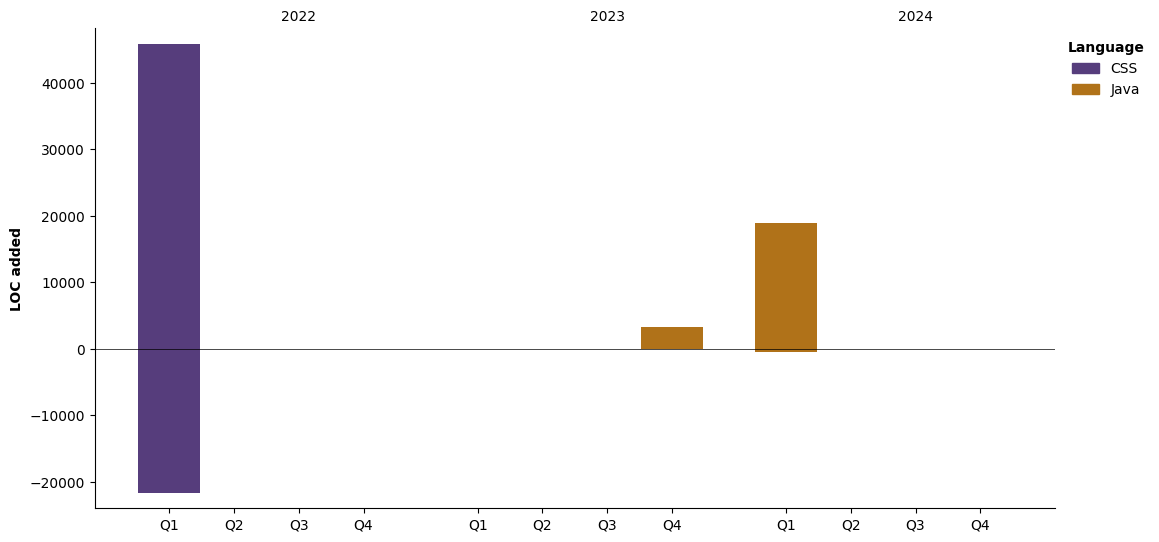
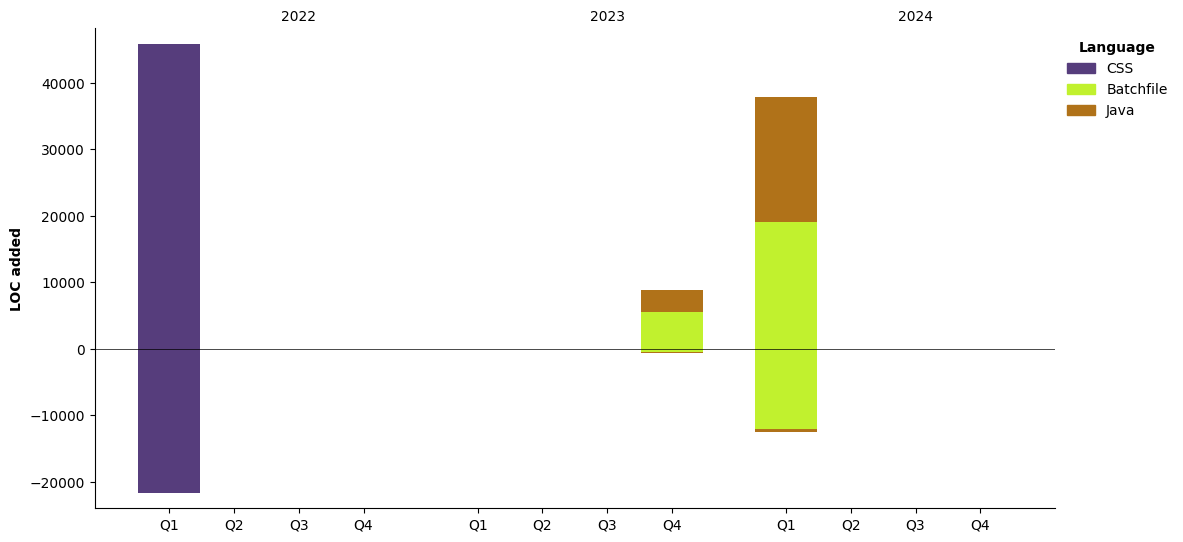
Updated with Dev Metrics

diff --git a/README.md b/README.md
@@ -8,13 +8,15 @@
   - email: ***whaifree@163.com***
 
 <!--START_SECTION:waka-->
+![Code Time](http://img.shields.io/badge/Code%20Time-1%20hr%2041%20mins-blue)
+
 ![Profile Views](http://img.shields.io/badge/Profile%20Views-70-blue)
 
 **🐱 My GitHub Data** 
 
 > 📦 63.9 kB Used in GitHub's Storage 
  > 
-> 🏆 96 Contributions in the Year 2024
+> 🏆 97 Contributions in the Year 2024
  > 
 > 🚫 Not Opted to Hire
  > 
@@ -22,6 +24,58 @@
  > 
 > 🔑 0 Private Repositories 
  > 
+**I'm a Night 🦉** 
 
- Last Updated on 26/03/2024 18:37:40 UTC
+```text
+🌞 Morning                18 commits          ███░░░░░░░░░░░░░░░░░░░░░░   13.14 % 
+🌆 Daytime                32 commits          ██████░░░░░░░░░░░░░░░░░░░   23.36 % 
+🌃 Evening                86 commits          ████████████████░░░░░░░░░   62.77 % 
+🌙 Night                  1 commits           ░░░░░░░░░░░░░░░░░░░░░░░░░   00.73 % 
+```
+📅 **I'm Most Productive on Tuesday** 
+
+```text
+Monday                   9 commits           ██░░░░░░░░░░░░░░░░░░░░░░░   06.57 % 
+Tuesday                  30 commits          █████░░░░░░░░░░░░░░░░░░░░   21.90 % 
+Wednesday                21 commits          ████░░░░░░░░░░░░░░░░░░░░░   15.33 % 
+Thursday                 17 commits          ███░░░░░░░░░░░░░░░░░░░░░░   12.41 % 
+Friday                   19 commits          ███░░░░░░░░░░░░░░░░░░░░░░   13.87 % 
+Saturday                 11 commits          ██░░░░░░░░░░░░░░░░░░░░░░░   08.03 % 
+Sunday                   30 commits          █████░░░░░░░░░░░░░░░░░░░░   21.90 % 
+```
+
+
+📊 **This Week I Spent My Time On** 
+
+```text
+🕑 Time Zone: Asia/Shanghai
+
+🔥 Editors: 
+Intellijidea             17 mins             █████████████████████████   100.00 % 
+
+🐱💻 Projects: 
+demoSpringBean           17 mins             ████████████████████████░   98.00 % 
+LeetCode                 0 secs              ░░░░░░░░░░░░░░░░░░░░░░░░░   01.03 % 
+bagu                     0 secs              ░░░░░░░░░░░░░░░░░░░░░░░░░   00.96 % 
+
+💻 Operating System: 
+Windows                  17 mins             █████████████████████████   100.00 % 
+```
+
+**I Mostly Code in Batchfile** 
+
+```text
+Batchfile                1 repo              ████████░░░░░░░░░░░░░░░░░   33.33 % 
+Java                     1 repo              ████████░░░░░░░░░░░░░░░░░   33.33 % 
+CSS                      1 repo              ████████░░░░░░░░░░░░░░░░░   33.33 % 
+```
+
+
+
+**Timeline**
+
+![Lines of Code chart](https://raw.githubusercontent.com/whaibetter/whaibetter/main/assets/bar_graph.png)
+
+
+ Last Updated on 27/03/2024 09:39:11 UTC
 <!--END_SECTION:waka-->
